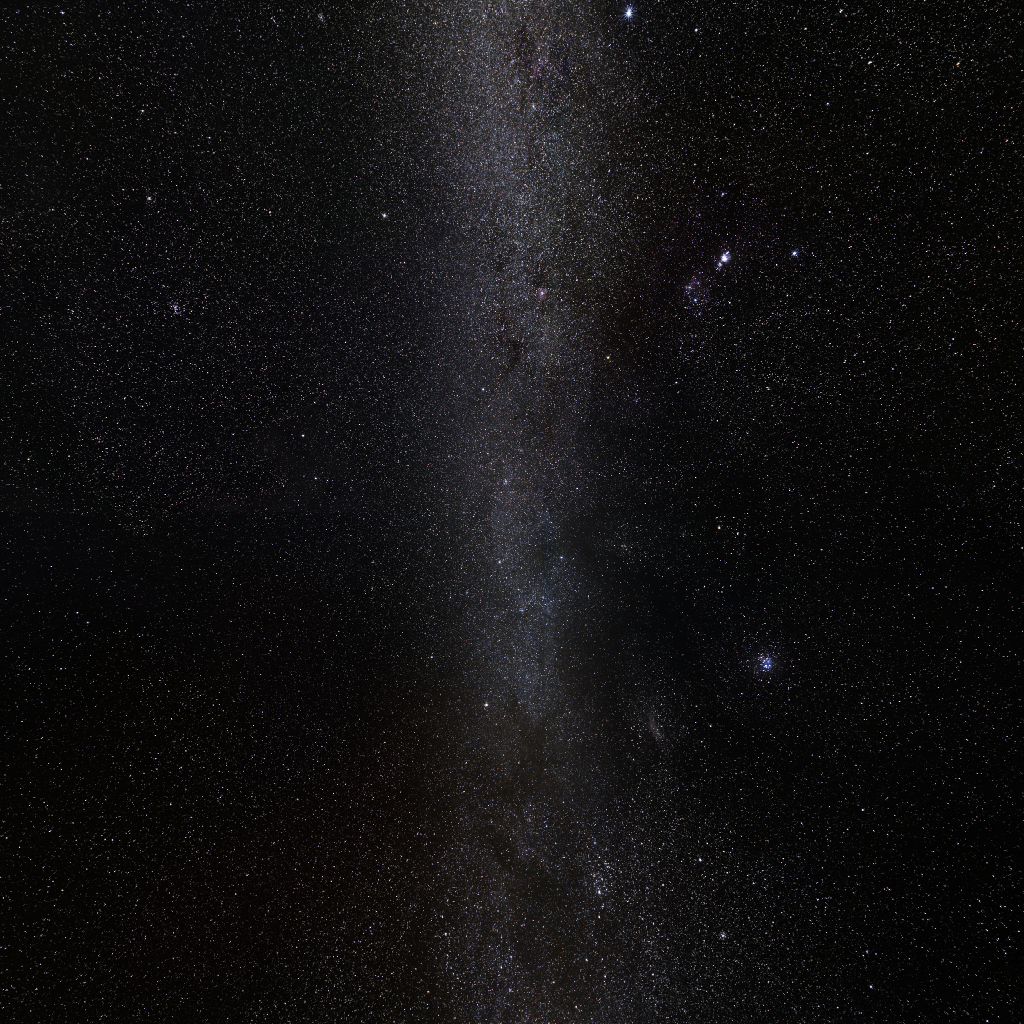
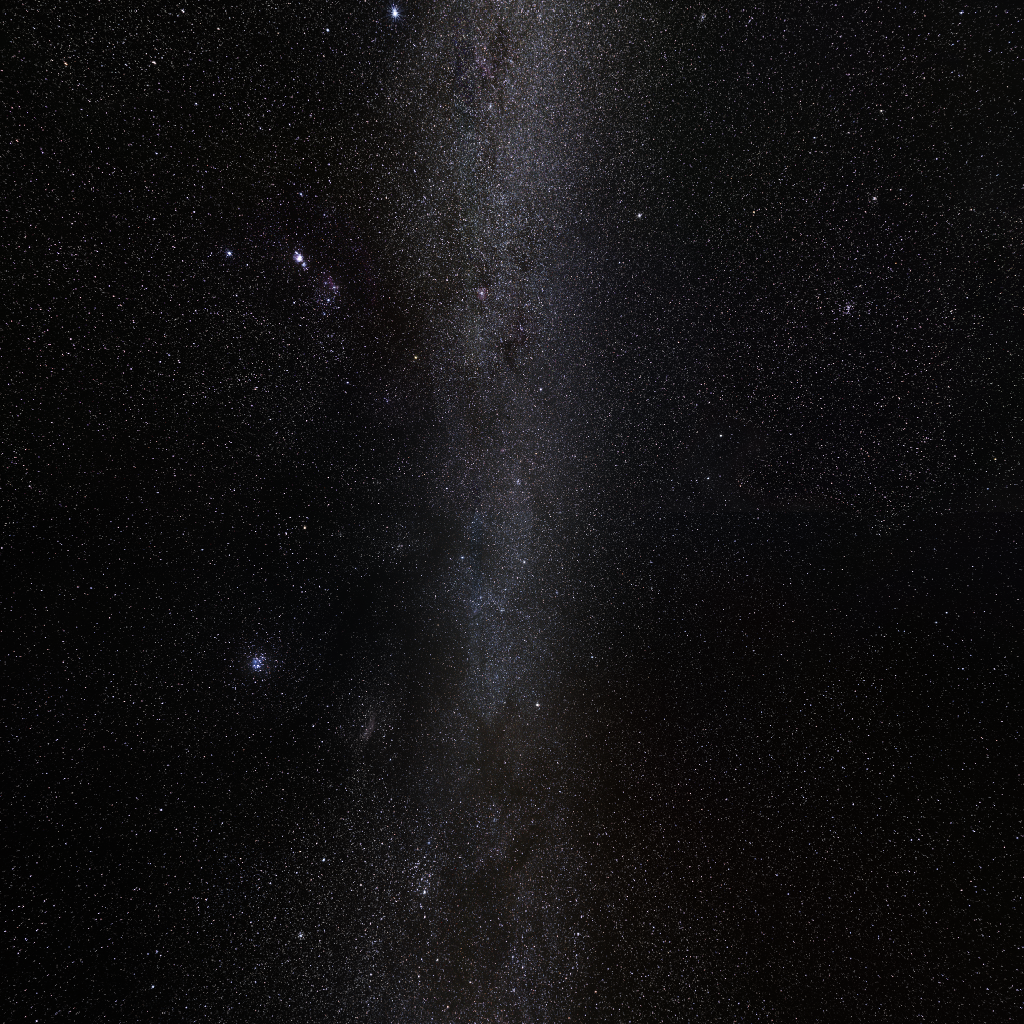
found another bug: coord system was spun 180 on the fwd axis.  fixed it.  then changed the mapping from src image to correct y direction and maintain right-handedness.

diff --git a/index.html b/index.html
@@ -31,7 +31,6 @@ _gaq.push(['_trackPageview']);
 attribute vec3 vertex;
 varying vec3 vertexv;
 uniform mat4 projMat;
-
 const mat3 viewMatrixInv = mat3(
 	0., 1., 0.,
 	0., 0., -1.,
@@ -46,14 +45,10 @@ precision mediump float;
 varying vec3 vertexv;
 uniform samplerCube skyTex;
 uniform samplerCube lightVelTex;
-//why does the y axis have to be flipped?
-//something to do with our texture upload having its y flipped?
-//how do I fix that?
-//...or is it that I'm using/notusing unpack_flip_y in my test case by which i aligned my cube side transformations, and that should be reversed?
 const mat3 viewMatrix = mat3(
 	0., 0., -1.,
 	1., 0., 0., 
-	0., 1., 0.);
+	0., -1., 0.);
 
 uniform vec4 viewAngle;
 vec3 qtransform( vec4 q, vec3 v ){ 
@@ -109,6 +104,7 @@ a:active {
 				Warp Bubble Velocity (c): <input id='warpBubbleVelocity'/><br>
 				Warp Bubble Radius: <input id='warpBubbleRadius'/><br>
 			</div>
+			<input type='radio' group='1' onclick='location.href="testcube.html"'>Test Cube</input><br>
 			<input type='radio' group='1' checked>Software update</input><br>
 			<input type='radio' group='1' onclick='location.href="index.fbo.html"'>FBO update</input><br>
 			<button id='reset'>Reset</button><br>

diff --git a/main.js b/main.js
@@ -48,19 +48,13 @@ function sechSq(x) {
 var SQRT_1_2 = Math.sqrt(.5);
 //forward-transforming (object rotations)
 var angleForSide = [
-	[SQRT_1_2,0,SQRT_1_2,0],
-	[SQRT_1_2,0,-SQRT_1_2,0],
-	[SQRT_1_2,0,0,SQRT_1_2],
-	[-SQRT_1_2,0,0,SQRT_1_2],
-	[1,0,0,0],
-	[0,0,1,0]
+	[0, -SQRT_1_2, 0, -SQRT_1_2],
+	[0, SQRT_1_2, 0, -SQRT_1_2],
+	[SQRT_1_2, 0, 0, -SQRT_1_2],
+	[SQRT_1_2, 0, 0, SQRT_1_2],
+	[0, 0, 0, -1],
+	[0, -1, 0, 0]
 ];
-//inverse-transforming (view rotations)
-var angleForSideInv = [];
-for (var i = 0; i < angleForSide.length; ++i) {
-	angleForSideInv[i] = quat.create();
-	quat.conjugate(angleForSideInv[i], angleForSide[i]);
-}
 
 function resize() {
 	canvas.width = window.innerWidth;
@@ -82,9 +76,9 @@ function resetField() {
 		for (var v = 0; v < lightTexHeight; ++v) {
 			for (var u = 0; u < lightTexWidth; ++u) {
 				vel[0] = (u + .5) / lightTexWidth * 2 - 1;
-				vel[1] = 1 - (v + .5) / lightTexHeight * 2;
+				vel[1] = (v + .5) / lightTexHeight * 2 - 1;
 				vel[2] = 1;
-				vec3.transformQuat(vel, vel, angleForSideInv[side]);
+				vec3.transformQuat(vel, vel, angleForSide[side]);
 
 				//[3] will be the time (0'th) coordinate
 				//light velocities must be unit in minkowski space

diff --git a/main.fbo.cube.js b/main.fbo.cube.js
@@ -82,12 +82,12 @@ function getShaderProgramArgsForFlags(flags) {
 
 var SQRT_1_2 = Math.sqrt(.5);
 var angleForSide = [
-	[SQRT_1_2,0,SQRT_1_2,0],
-	[SQRT_1_2,0,-SQRT_1_2,0],
-	[-SQRT_1_2,0,0,SQRT_1_2],
-	[SQRT_1_2,0,0,SQRT_1_2],
-	[1,0,0,0],
-	[0,0,1,0]
+	[0, -SQRT_1_2, 0, -SQRT_1_2],
+	[0, SQRT_1_2, 0, -SQRT_1_2],
+	[SQRT_1_2, 0, 0, -SQRT_1_2],
+	[SQRT_1_2, 0, 0, SQRT_1_2],
+	[0, 0, 0, -1],
+	[0, -1, 0, 0]
 ];
 
 function resize() {
@@ -290,8 +290,8 @@ $(document).ready(function(){
 			'skytex/sky-visible-cube-xp.png',
 			'skytex/sky-visible-cube-xn.png',
 			'skytex/sky-visible-cube-yp.png',
-			'skytex/sky-visible-cube-yp.png',
-			'skytex/sky-visible-cube-zn.png',
+			'skytex/sky-visible-cube-yn.png',
+			'skytex/sky-visible-cube-zp.png',
 			'skytex/sky-visible-cube-zn.png'
 		]
 	});

diff --git a/main.fbo.fixed.js b/main.fbo.fixed.js
@@ -101,12 +101,12 @@ function buildShaderForFlags(flags) {
 
 var SQRT_1_2 = Math.sqrt(.5);
 var angleForSide = [
-	[SQRT_1_2,0,SQRT_1_2,0],
-	[SQRT_1_2,0,-SQRT_1_2,0],
-	[-SQRT_1_2,0,0,SQRT_1_2],
-	[SQRT_1_2,0,0,SQRT_1_2],
-	[1,0,0,0],
-	[0,0,1,0]
+	[0, -SQRT_1_2, 0, -SQRT_1_2],
+	[0, SQRT_1_2, 0, -SQRT_1_2],
+	[SQRT_1_2, 0, 0, -SQRT_1_2],
+	[SQRT_1_2, 0, 0, SQRT_1_2],
+	[0, 0, 0, -1],
+	[0, -1, 0, 0]
 ];
 
 function resize() {
@@ -329,8 +329,8 @@ $(document).ready(function(){
 			'skytex/sky-visible-cube-xp.png',
 			'skytex/sky-visible-cube-xn.png',
 			'skytex/sky-visible-cube-yp.png',
-			'skytex/sky-visible-cube-yp.png',
-			'skytex/sky-visible-cube-zn.png',
+			'skytex/sky-visible-cube-yn.png',
+			'skytex/sky-visible-cube-zp.png',
 			'skytex/sky-visible-cube-zn.png'
 		]
 	});

diff --git a/main.fbo.js b/main.fbo.js
@@ -87,12 +87,12 @@ function getShaderProgramArgsForFlags(flags) {
 
 var SQRT_1_2 = Math.sqrt(.5);
 var angleForSide = [
-	[SQRT_1_2,0,SQRT_1_2,0],
-	[SQRT_1_2,0,-SQRT_1_2,0],
-	[-SQRT_1_2,0,0,SQRT_1_2],
-	[SQRT_1_2,0,0,SQRT_1_2],
-	[1,0,0,0],
-	[0,0,1,0]
+	[0, -SQRT_1_2, 0, -SQRT_1_2],
+	[0, SQRT_1_2, 0, -SQRT_1_2],
+	[SQRT_1_2, 0, 0, -SQRT_1_2],
+	[SQRT_1_2, 0, 0, SQRT_1_2],
+	[0, 0, 0, -1],
+	[0, -1, 0, 0]
 ];
 
 function resize() {
@@ -220,8 +220,8 @@ var skyTexFilenames = [
 	'skytex/sky-visible-cube-xp.png',
 	'skytex/sky-visible-cube-xn.png',
 	'skytex/sky-visible-cube-yp.png',
-	'skytex/sky-visible-cube-yp.png',
-	'skytex/sky-visible-cube-zn.png',
+	'skytex/sky-visible-cube-yn.png',
+	'skytex/sky-visible-cube-zp.png',
 	'skytex/sky-visible-cube-zn.png'
 ];
 function main1() {

diff --git a/testcube.html b/testcube.html
@@ -83,6 +83,11 @@ a:active {
 		</style>
 	</head>
 	<body style='margin:0px; overflow:hidden'>
+		<div id='panel' style='width:400; position:absolute; background-color:rgba(0,0,0,.5)'>
+			<input type='radio' group='1' checked>Test Cube</input><br>
+			<input type='radio' group='1' onclick='location.href="index.html"'>Software update</input><br>
+			<input type='radio' group='1' onclick='location.href="index.fbo.html"'>FBO update</input><br>
+		</div>
 		<div id='webglfail' style='display:none'>
 			Sorry, your browser does not support WebGL<br>
 			Try one of these other, better browsers:<br>

diff --git a/index.fbo.html b/index.fbo.html
@@ -286,6 +286,7 @@ a:active {
 			Warp Bubble Thickness: <input id='warpBubbleThickness'/><br>
 			Warp Bubble Velocity (c): <input id='warpBubbleVelocity'/><br>
 			Warp Bubble Radius: <input id='warpBubbleRadius'/><br>
+			<input type='radio' group='1' onclick='location.href="testcube.html"'>Test Cube</input><br>
 			<input type='radio' group='1' onclick='location.href="index.html"'>Software update</input><br>
 			<input type='radio' group='1' checked>FBO update</input><br>
 			<button id='reset'>Reset</button><br>
